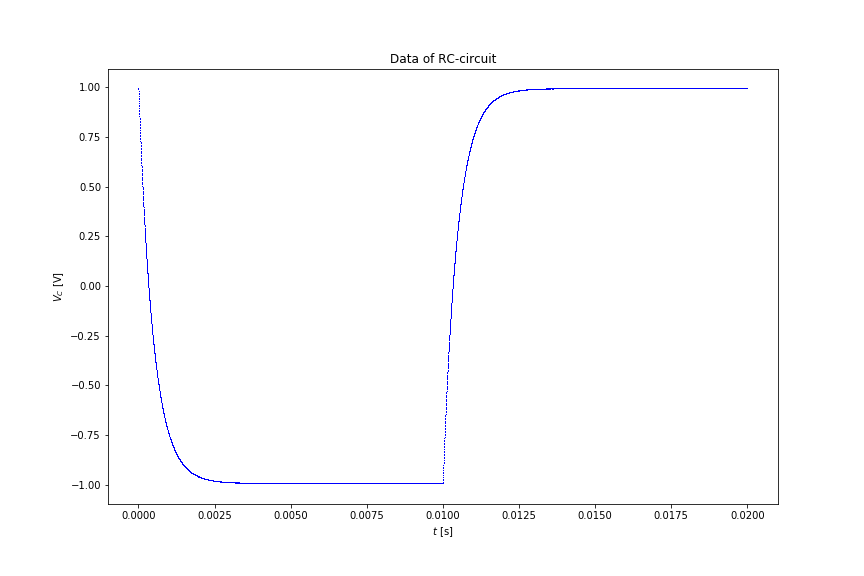
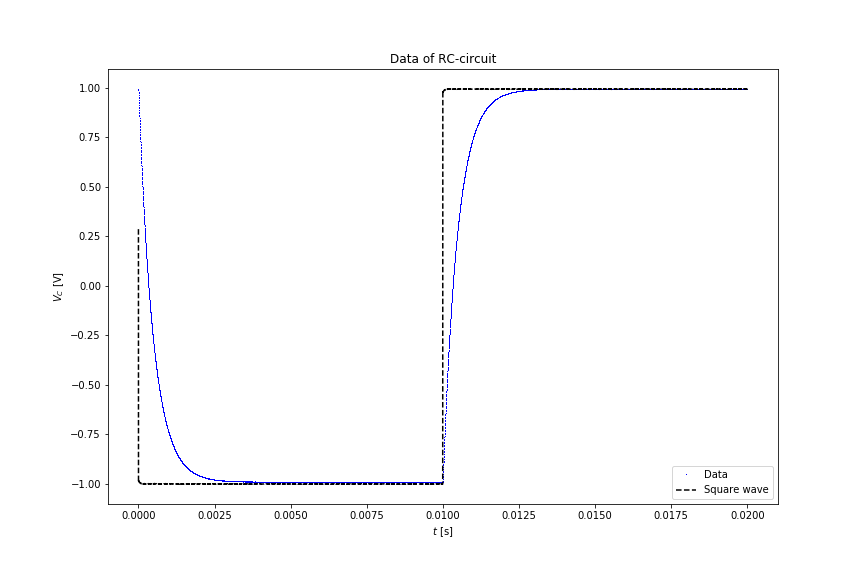
new models with square wave

diff --git a/Python_kode.py b/Python_kode.py
@@ -167,9 +167,11 @@ def H_bp(omega):
 if len(sys.argv) == 2:
     if sys.argv[1] == 'data':
         plt.figure(figsize=(12, 8))
-        plt.plot(time - time[0], cap, 'b,')
+        plt.plot(time - time[0], cap, 'b,', label='Data')
+        plt.plot(time - time[0], sqwave_data, 'k--', label='Square wave')
         plt.xlabel('$t$ [s]')
         plt.ylabel('$V_C$ [V]')
+        plt.legend()
         plt.title('Data of RC-circuit')
         plt.savefig('data.png')
 
@@ -180,9 +182,12 @@ if len(sys.argv) == 2:
     if sys.argv[1] == 'model':
         plt.figure(figsize=(12, 8))
         plt.plot(t, V_C(t), 'tab:orange')
-        plt.plot(time_charge + t, V_C2(t), 'tab:orange')
+        plt.plot(time_charge + t, V_C2(t), 'tab:orange'
+                 , label='Mathematical model')
+        plt.plot(time - time[0], sqwave_data, 'k--', label='Square wave')
         plt.xlabel('$t$ [s]')
         plt.ylabel('$V_C$ [V]')
+        plt.legend()
         plt.title('Mathematical model')
         plt.savefig('mathematical_model.png')
 
